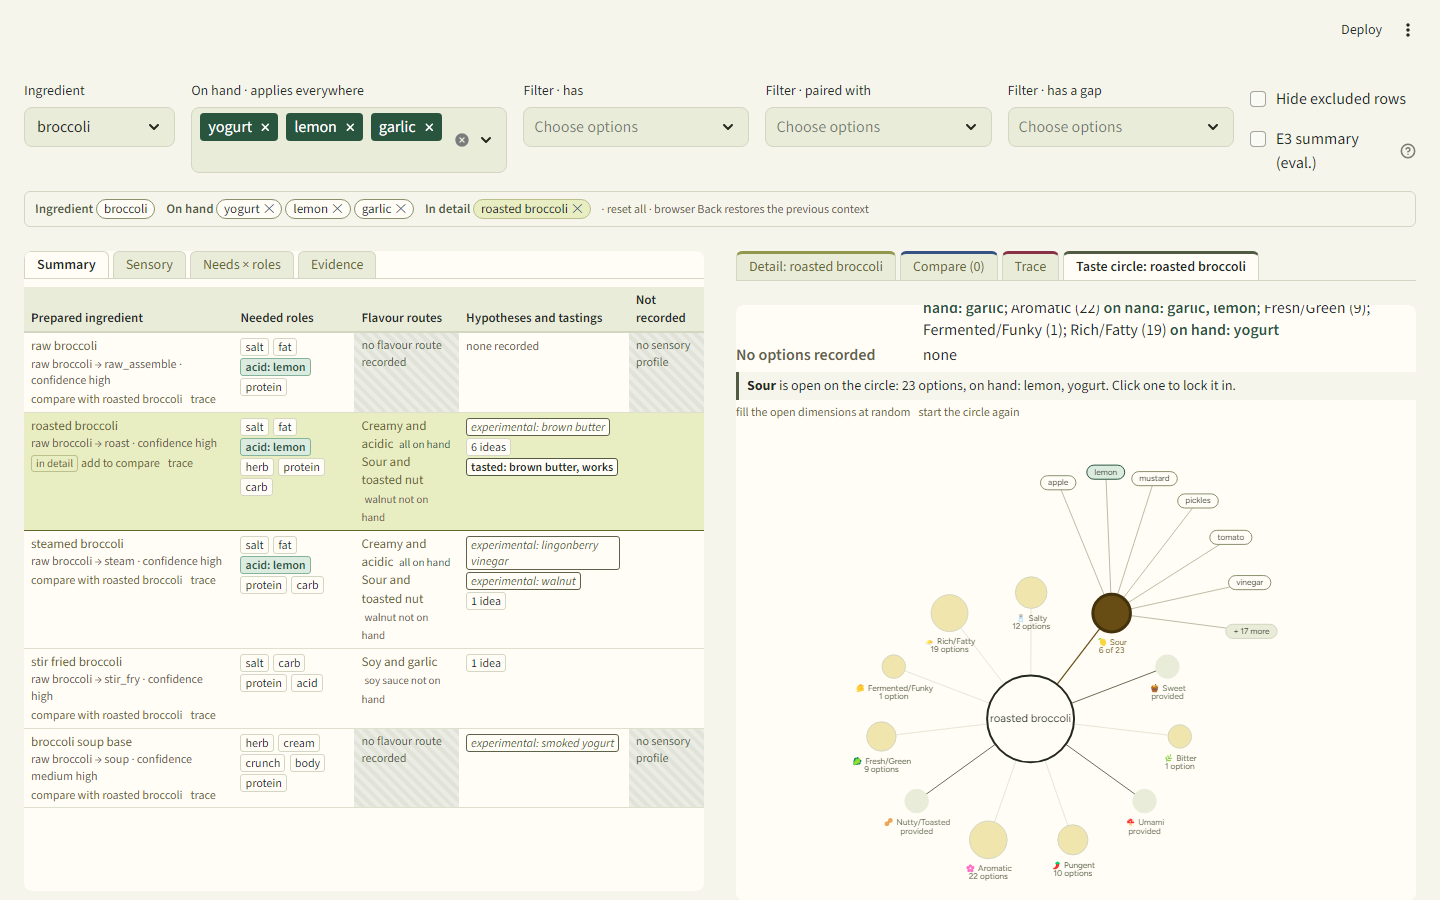
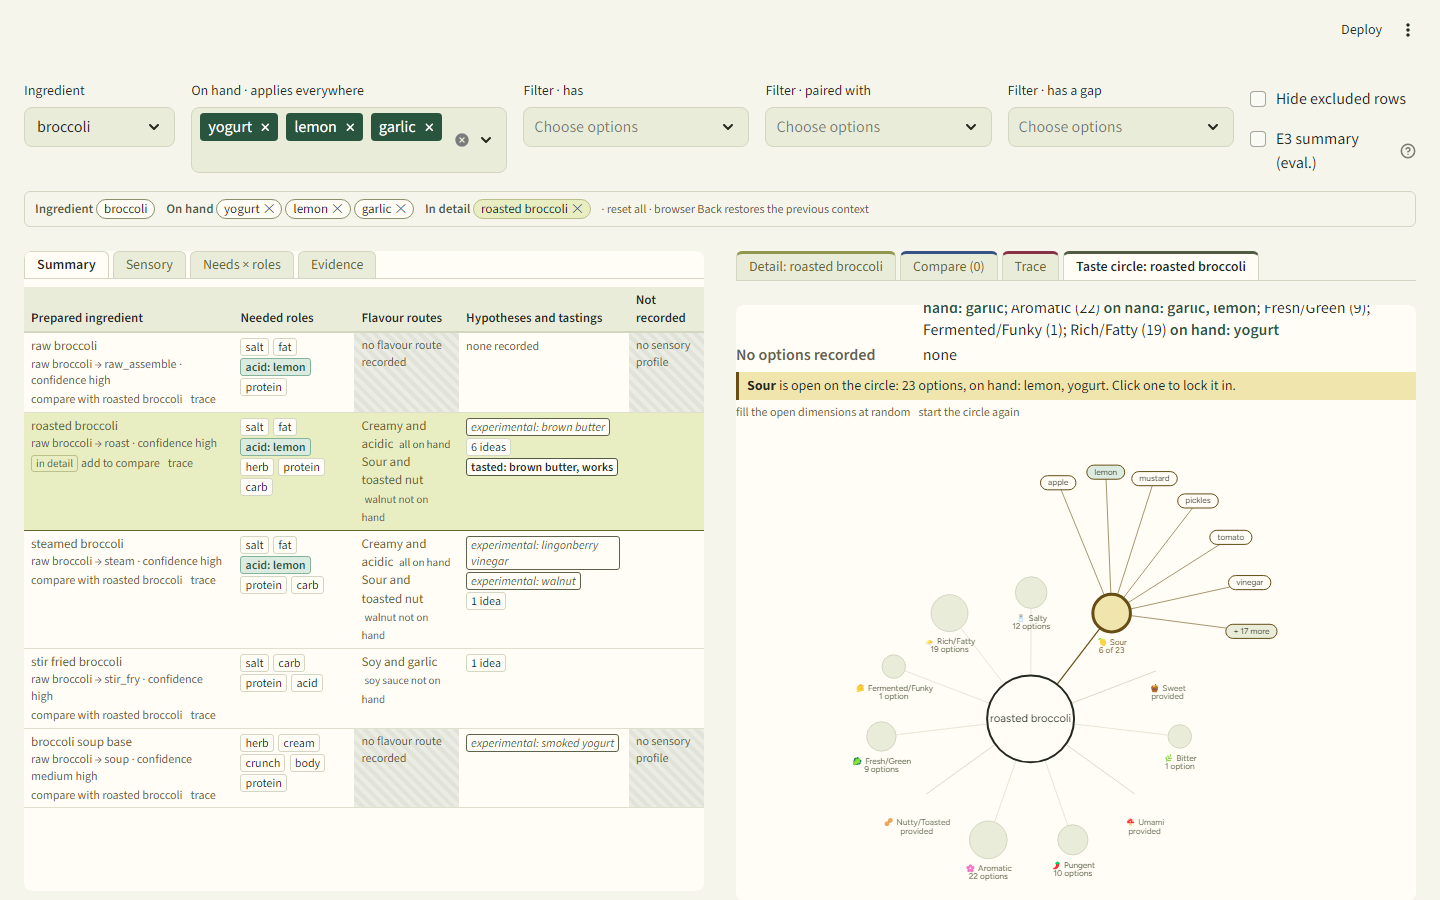
feat(research): mustard marks only the opened circle dimension in pantry
On the circle the outline says focus and the fill says status. The
dimension clicked open, its fan and the read-out note take mustard seed;
dimensions still to fill stay pale sage; provided ones sit back on yogurt.
Option chips keep parsley (on hand) or red cabbage (locked).

diff --git a/docs/research/ux-layout-variants-r4-2/prototype/r42_palette.py b/docs/research/ux-layout-variants-r4-2/prototype/r42_palette.py
@@ -156,6 +156,13 @@ def _extras(w: dict) -> dict:
         "lock-label": C["sel"]["deep"],
         "exp-fill": C["sel"]["base"], "exp-edge": C["sel"]["deep"], "exp-label": C["sel"]["deep"],
     })
+    # Focus on the fanned-out dimension: the line to it, the fan's lines and
+    # option outlines, and the read-out note. Defaults keep the jobs worlds
+    # and peach as they were.
+    for k, v in {"exp-line": w["circle"]["exp-fill"], "fan-edge": w["line_strong"],
+                 "fan-have-edge": C["have"]["base"], "fan-note-fill": w["fill_soft"],
+                 "fan-note-edge": w["ink2"]}.items():
+        w["circle"].setdefault(k, v)
     return w
 
 
@@ -183,12 +190,20 @@ def _pantry() -> dict:
             "note": {"fill": page, "line": line},
             "node": {"state": panel, "route": panel, "source": fill, "pairing": panel},
             "circle_tab": ink2, "primary": sel["base"], "gap": gap, "sel_edge": "#5F692C",
+            # Circle: the outline says focus, the fill says status. Mustard
+            # seed marks only the dimension you opened, with its fan; the
+            # dimensions still to fill are pale sage (clickable, like the
+            # filters); the ones the state provides sit back on yogurt.
+            # Option chips keep their status fill: parsley on hand, red
+            # cabbage once locked into the dish.
             "circle": {"canvas": panel,
-                       "open-fill": "#F1E5AE", "open-edge": "#674C14", "open-label": "#674C14",
-                       "prov-fill": fill, "prov-edge": ink2, "prov-label": ink2,
+                       "open-fill": fill, "open-edge": ink2, "open-label": ink2,
+                       "prov-fill": panel, "prov-edge": line, "prov-label": ink2,
                        "lock-fill": "#ECDFF0", "lock-edge": "#633F68", "lock-calm": hsl(288, 22, 70),
                        "lock-label": "#633F68",
-                       "exp-fill": "#674C14", "exp-edge": hsl(40, 67, 16), "exp-label": "#674C14"}}
+                       "exp-fill": "#F1E5AE", "exp-edge": "#674C14", "exp-label": "#674C14",
+                       "exp-line": "#674C14", "fan-edge": "#674C14", "fan-have-edge": "#674C14",
+                       "fan-note-fill": "#F1E5AE", "fan-note-edge": "#674C14"}}
 
 
 def _white() -> dict:
@@ -250,7 +265,8 @@ def text_pairs(name: str = DEFAULT_WORLD) -> list[tuple[str, str, str]]:
              ("circle label, open", "circle-open-label", "circle-canvas"),
              ("circle label, provided", "circle-prov-label", "circle-canvas"),
              ("circle label, locked", "circle-lock-label", "circle-canvas"),
-             ("circle label, expanded", "circle-exp-label", "circle-canvas")]
+             ("circle label, expanded", "circle-exp-label", "circle-canvas"),
+             ("open-dimension note", "ink", "circle-fan-note-fill")]
     return [(n, t[f], t[b]) for n, f, b in pairs]
 
 
@@ -260,6 +276,9 @@ def mark_pairs(name: str = DEFAULT_WORLD) -> list[tuple[str, str, str]]:
     pairs = [("compare pin bar", "cmp-base", "sel-subtle"), ("tab top, detail", "sel-mid", "surface"),
              ("tab top, compare", "cmp-base", "surface"), ("tab top, trace", "trace-base", "surface"),
              ("tab top, circle", "circle-tab", "surface")]
+    if name == "pantry":         # the outline is what marks focus there
+        pairs += [("open dimension outline", "circle-exp-edge", "circle-canvas"),
+                  ("fan option outline", "circle-fan-edge", "circle-canvas")]
     if name != "peach":          # the reference world is kept as it was
         pairs.append(("experimental outline", "hyp-border", "surface"))
     return [(n, t[f], t[b]) for n, f, b in pairs]

diff --git a/docs/research/ux-layout-variants-r4-2/prototype/r42_circle.py b/docs/research/ux-layout-variants-r4-2/prototype/r42_circle.py
@@ -101,10 +101,12 @@ def style_by_role(data: dict, st: Mapping[str, Any], prov: set[str]) -> dict:
     """Colour every node and edge by its job, from the world's tokens:
     each state takes the world's circle role (white/cool: open = white
     with an outline, provided = neutral fill, locked = the selection blue,
-    expanded = solid blue; pantry: open = mustard seed, provided = pale
-    sage, locked = red cabbage), and an option you have on hand takes
-    the on-hand colour. When one dimension is fanned out, the others step
-    back to lighter versions of the same roles."""
+    expanded = solid blue; pantry: open = pale sage, provided = yogurt,
+    locked = red cabbage, expanded = mustard seed), and an option you have
+    on hand takes the on-hand fill. The fan (lines and option outlines)
+    takes the expanded dimension's accent in pantry, so the outline says
+    focus and the fill says status. When one dimension is fanned out, the
+    others step back to lighter versions of the same roles."""
     T = P.tokens(st["pal"])
     have = set(st["have"])
     fanned = bool(st["tcx"])
@@ -133,11 +135,11 @@ def style_by_role(data: dict, st: Mapping[str, Any], prov: set[str]) -> dict:
         elif kind == "filler":
             _p, _dim, filler = n["id"].split(":", 2)
             if filler == MORE:
-                n["color"] = _paint(T["fill"], T["line"], T["ink"])
+                n["color"] = _paint(T["fill"], T["circle-fan-edge"], T["ink"])
             elif filler in have:
-                n["color"] = _paint(T["have-subtle"], T["have-base"], T["ink"])
+                n["color"] = _paint(T["have-subtle"], T["circle-fan-have-edge"], T["ink"])
             else:
-                n["color"] = _paint(T["surface"], T["line-strong"], T["ink"])
+                n["color"] = _paint(T["surface"], T["circle-fan-edge"], T["ink"])
             n["font"] = {**n.get("font", {}), "color": T["ink"]}
         out_nodes.append(n)
     out_edges = []
@@ -145,10 +147,10 @@ def style_by_role(data: dict, st: Mapping[str, Any], prov: set[str]) -> dict:
         e = dict(e)
         role = state_of.get(e.get("to", ""))
         if role is None:                              # dimension -> option (the fan)
-            col, w = T["line-strong"], 1
+            col, w = T["circle-fan-edge"], 1
         else:
             col, w = {"open": (T["line"], 1), "provided": (T["circle-prov-edge"], 1.5),
-                      "locked": (T["circle-lock-edge"], 2), "expanded": (T["circle-exp-fill"], 2)}[role]
+                      "locked": (T["circle-lock-edge"], 2), "expanded": (T["circle-exp-line"], 2)}[role]
         e["color"], e["width"] = {"color": col}, w
         out_edges.append(e)
     return {"nodes": out_nodes, "edges": out_edges}
@@ -292,7 +294,7 @@ CSS = """<style>
 .r4 .tabs .k-circle {border-top:3px solid var(--circle-tab)}
 .r4.tc .tc-dl {display:grid; grid-template-columns:max-content 1fr; gap:2px 12px; margin:6px 0}
 .r4.tc .tc-dl dt {color:var(--ink-3)} .r4.tc .tc-dl dd {margin:0}
-.r4.tc .tc-fan {background:var(--fill-soft); border-left:3px solid var(--ink-2); padding:4px 8px; margin:4px 0}
+.r4.tc .tc-fan {background:var(--circle-fan-note-fill); border-left:3px solid var(--circle-fan-note-edge); padding:4px 8px; margin:4px 0}
 .r4.tc .tc-name {font-weight:600; margin:2px 0 4px}
 .r4.tc table.tc-dish td, .r4.tc table.tc-dish th {padding:2px 10px 2px 0; text-align:left}
 </style>"""

diff --git a/tests/test_r42_circle.py b/tests/test_r42_circle.py
@@ -213,5 +213,29 @@ def test_pantry_circle_roles(conn):
     T = P.tokens("pantry")
     calm = {n["id"]: n for n in C.graph_data(conn, _st(tc=["sour:lemon"], pal="pantry"))["nodes"]}
     assert calm["dim:sour"]["color"]["background"] == T["circle-lock-fill"]     # red cabbage
-    assert calm["dim:salty"]["color"]["background"] == T["circle-open-fill"]    # mustard seed
-    assert calm["dim:umami"]["color"]["background"] == T["circle-prov-fill"]    # pale sage
+    assert calm["dim:salty"]["color"]["background"] == T["fill"]                # still to fill: pale sage
+    assert calm["dim:umami"]["color"]["background"] == T["panel"]               # provided: yogurt
+    mustard = {"#f1e5ae", "#674c14"}
+    assert not mustard & {c for c, _t in _colours(C.graph_data(conn, _st(tc=["sour:lemon"], pal="pantry")))}
+
+
+def test_pantry_mustard_marks_only_the_opened_dimension_and_its_fan(conn):
+    """Outline = focus, fill = status: Sour open is mustard, the rest stay
+    pale sage; lemon in the fan keeps its parsley fill with a mustard
+    outline, and turns red cabbage once locked in."""
+    import r42_palette as P
+    T = P.tokens("pantry")
+    d = C.graph_data(conn, _st(tcx="sour", pal="pantry"))
+    nodes = {n["id"]: n for n in d["nodes"]}
+    assert nodes["dim:sour"]["color"]["background"] == "#F1E5AE"
+    assert nodes["dim:sour"]["color"]["border"] == "#674C14"
+    others = [n for k, n in nodes.items() if k.startswith("dim:") and k != "dim:sour"
+              and C.node_state(_st(tcx="sour", pal="pantry"), k[4:], set()) == "open"
+              and n["color"]["background"] != T["panel"]]
+    assert others and all(n["color"]["background"] == T["fill"] for n in others)
+    lemon = nodes["filler:sour:lemon"]["color"]
+    assert (lemon["background"], lemon["border"]) == (T["have-subtle"], "#674C14")
+    fan = [e for e in d["edges"] if e["to"].startswith("filler:sour:")]
+    assert fan and all(e["color"]["color"] == "#674C14" for e in fan)
+    locked = {n["id"]: n for n in C.graph_data(conn, _st(tc=["sour:lemon"], pal="pantry"))["nodes"]}
+    assert locked["dim:sour"]["color"]["background"] == "#ECDFF0"

diff --git a/tests/test_r42_palette.py b/tests/test_r42_palette.py
@@ -89,7 +89,7 @@ def test_pantry_uses_the_proposed_colours_exactly():
                 "ink-2": "#515a43", "sel-subtle": "#e9edc2", "sel-edge": "#5f692c",
                 "have-subtle": "#dcebdf", "have-base": "#29543e",
                 "circle-lock-fill": "#ecdff0", "circle-lock-edge": "#633f68",
-                "circle-open-fill": "#f1e5ae", "circle-open-edge": "#674c14",
+                "circle-exp-fill": "#f1e5ae", "circle-exp-edge": "#674c14",
                 "gap-fill": "#ebede4", "gap-text": "#535c4a"}
     for k, v in proposed.items():
         assert t[k] == v, k

diff --git a/.handoff.md b/.handoff.md
@@ -13,7 +13,8 @@ User review of R4.1: ready for focused data-layout validation, not the final lay
 - feat(research): derived palette (user asked to improve colours and tint using github.com/dembrandt/dembrandt-skills; its skills were read as guidance, nothing installed or run). `prototype/r42_palette.py` derives every colour from the product primary `#6F4102` (design.css `--filler-700`): seed-tinted neutrals, off-white page `#f5f5f4`, near-black ink, concept hues (sel 35, compare 215, trace 268, on hand 145, differs 4) at the seed's S/L, link blue lighter. CSS in r42_views/r42_circle uses only `var(--token)`; the trace graph uses `@token@` placeholders filled from the palette; app.py tints the page and Streamlit inputs (product `.streamlit/config.toml` untouched). All 22 text pairs >= 4.5:1 (lowest 4.54, was 2.47); rendered page lowest 5.14. `tests/test_r42_palette.py` (33). Doc `palette.md`. Layout metrics unchanged; screenshots recaptured. Full suite 507 passed.
 - feat(research): no grey (user: "can we do it without gray?"). Neutrals are seed-hue tones at 24-50% saturation (page #f9f3ec warm paper, fills cream, lines sand, ink/secondary roasted brown); concept fills a step stronger; the circle's greys recoloured in r42_circle._recolour (prototype copy of the product graph data; labels now >= 4.5:1). Streamlit theme from the palette via new launcher `prototype/run.py` (use it instead of `streamlit run app.py`; .claude/launch.json r42-variants points at it). Tests: no token or circle colour below NEUTRAL_MIN_SAT=20%.
 - feat(research): colour by job, not food (user: food colours were the wrong foundation; peach did too many jobs). `r42_palette.py` now defines worlds (URL VARIANT key `pal`: white default, cool, peach = previous reference). Jobs: blue selection+links, violet compare (+differs), magenta trace, green on hand, hypotheses no hue (outline/weight; new hyp-* tokens), cool neutral structure; note-* and node-* tokens for banner and graph. `r42_views.css(pal)` prepends tokens; app recolours page/controls per world; run.py theme = default world. Circle: role-based styling (`style_by_role`), peach keeps old recolour; `r42_circle_component.py` serves a generated copy of the product component with a transparent background (src unchanged). `evidence/capture_worlds.py` → `screenshots/worlds/`. Tests cover all worlds.
-- feat(research): `pal=pantry`, the user's proposed palette (oat page, yogurt panels + circle canvas, pale sage filters/tabs, green olive selected row with #5F692C edge, parsley on hand, red cabbage locked, mustard seed open dimensions, muted sage gaps), exact values tested. Gaps filled: blueberry compare, beetroot trace, olive links, pale sage provided dims. New shared tokens: panel, sel-edge, gap-*, circle-* (app styles the two panes via container keys r42-left/right and the circle iframe background). Open questions for the user: does "open dimension" mean all fillable dims (as implemented) or only the fanned-out one; which world becomes default.
+- feat(research): pantry circle, outline = focus, fill = status (decided 2026-11-23). Mustard (#F1E5AE / #674C14) marks only the dimension clicked open: its node, the line to it, the fan's lines and option outlines, and the read-out note. Dimensions still to fill are pale sage with an ink-2 outline; provided ones are yogurt with a faint line (they nearly disappear on the canvas; their labels say "provided"). Option fills keep status: parsley on hand, red cabbage once locked. New circle tokens exp-line, fan-edge, fan-have-edge, fan-note-fill, fan-note-edge (defaults keep white/cool/peach unchanged). Circle and worlds screenshots recaptured.
+- feat(research): `pal=pantry`, the user's proposed palette (oat page, yogurt panels + circle canvas, pale sage filters/tabs, green olive selected row with #5F692C edge, parsley on hand, red cabbage locked, mustard seed open dimensions, muted sage gaps), exact values tested. Gaps filled: blueberry compare, beetroot trace, olive links, pale sage provided dims. New shared tokens: panel, sel-edge, gap-*, circle-* (app styles the two panes via container keys r42-left/right and the circle iframe background). Both questions since answered: pantry is the default (fa7a8fd); on the circle the outline says focus and the fill says status (next entry).
 - chore(research): pantry is the default colour world (user chose it). `DEFAULT_WORLD`, the `pal` default and its fallback are pantry; run.py's Streamlit theme follows. Default screenshots recaptured.
 - Docs: README, variants, evaluation, session-plan, answer-key. R4.1 README/recommendations revised: verdict "ready for focused data-layout validation, not the final layout"; cards comparison dropped.
 

diff --git a/docs/research/ux-layout-variants-r4-2/palette.md b/docs/research/ux-layout-variants-r4-2/palette.md
@@ -65,7 +65,7 @@ The proposal puts food references back, with **one food per job**. Its colours a
 | Selected row | Green olive | `#E9EDC2` | `#5F692C` edge |
 | Ingredient on hand | Parsley | `#DCEBDF` | `#29543E` |
 | Locked into the dish | Red cabbage | `#ECDFF0` | `#633F68` |
-| Open dimension in the circle | Mustard seed | `#F1E5AE` | `#674C14` |
+| The dimension you opened on the circle, and its fan | Mustard seed | `#F1E5AE` | `#674C14` |
 | Missing or unrecorded | Muted sage | `#EBEDE4` | `#535C4A` |
 
 **Jobs the proposal leaves open, filled from the same family:**
@@ -75,14 +75,15 @@ The proposal puts food references back, with **one food per job**. Its colours a
 | Compare | blueberry `#355282` |
 | Trace | beetroot `#883046` |
 | Links | olive `#5F692C`, the selection colour (the "where you act" job) |
-| Dimensions the state already provides | pale sage, the proposal's "inactive" role. These cannot be clicked |
+| Dimensions still to fill | pale sage with a sage outline, like the filters: clickable |
+| Dimensions the state already provides | yogurt with a faint line. These cannot be clicked |
 | Hypotheses | no hue, as in the other worlds |
 | Lines and secondary text | sage tones (secondary `#5d634b`) |
 
 **Contrast:** every text pair passes, with the lowest at 4.65:1.
 
 **Interpretations and one addition, to confirm:**
-- **"Dimension open in the circle"** is read as every dimension that can still be filled. They are all mustard. The one you have fanned out takes the mustard text colour (`#674C14`) as a solid fill, which reads as dark brown. If "open" meant only the fanned-out dimension, the rest would go back to yogurt with an outline.
+- **On the circle, the outline says focus and the fill says status** (decided 2026-11-23). Mustard marks only the dimension you clicked open: its node, the line to it, the fan's lines and the outline of every option in the fan, and the note in the read-out. The other dimensions still to fill stay pale sage, so you see what you are working on and what is left. An option's fill keeps its status: lemon is parsley (on hand) with a mustard outline while it is offered in the Sour fan, and Sour turns red cabbage once you lock lemon in.
 - **The selected row needs its olive edge.** Olive and oat are nearly the same lightness (1.10:1), so the row is drawn with the proposal's `#5F692C` edge above and below.
 - **Olive and mustard are close in hue** (66° and 49°). They mark different things in different places: a row in the overview, a dimension on the circle.
 
